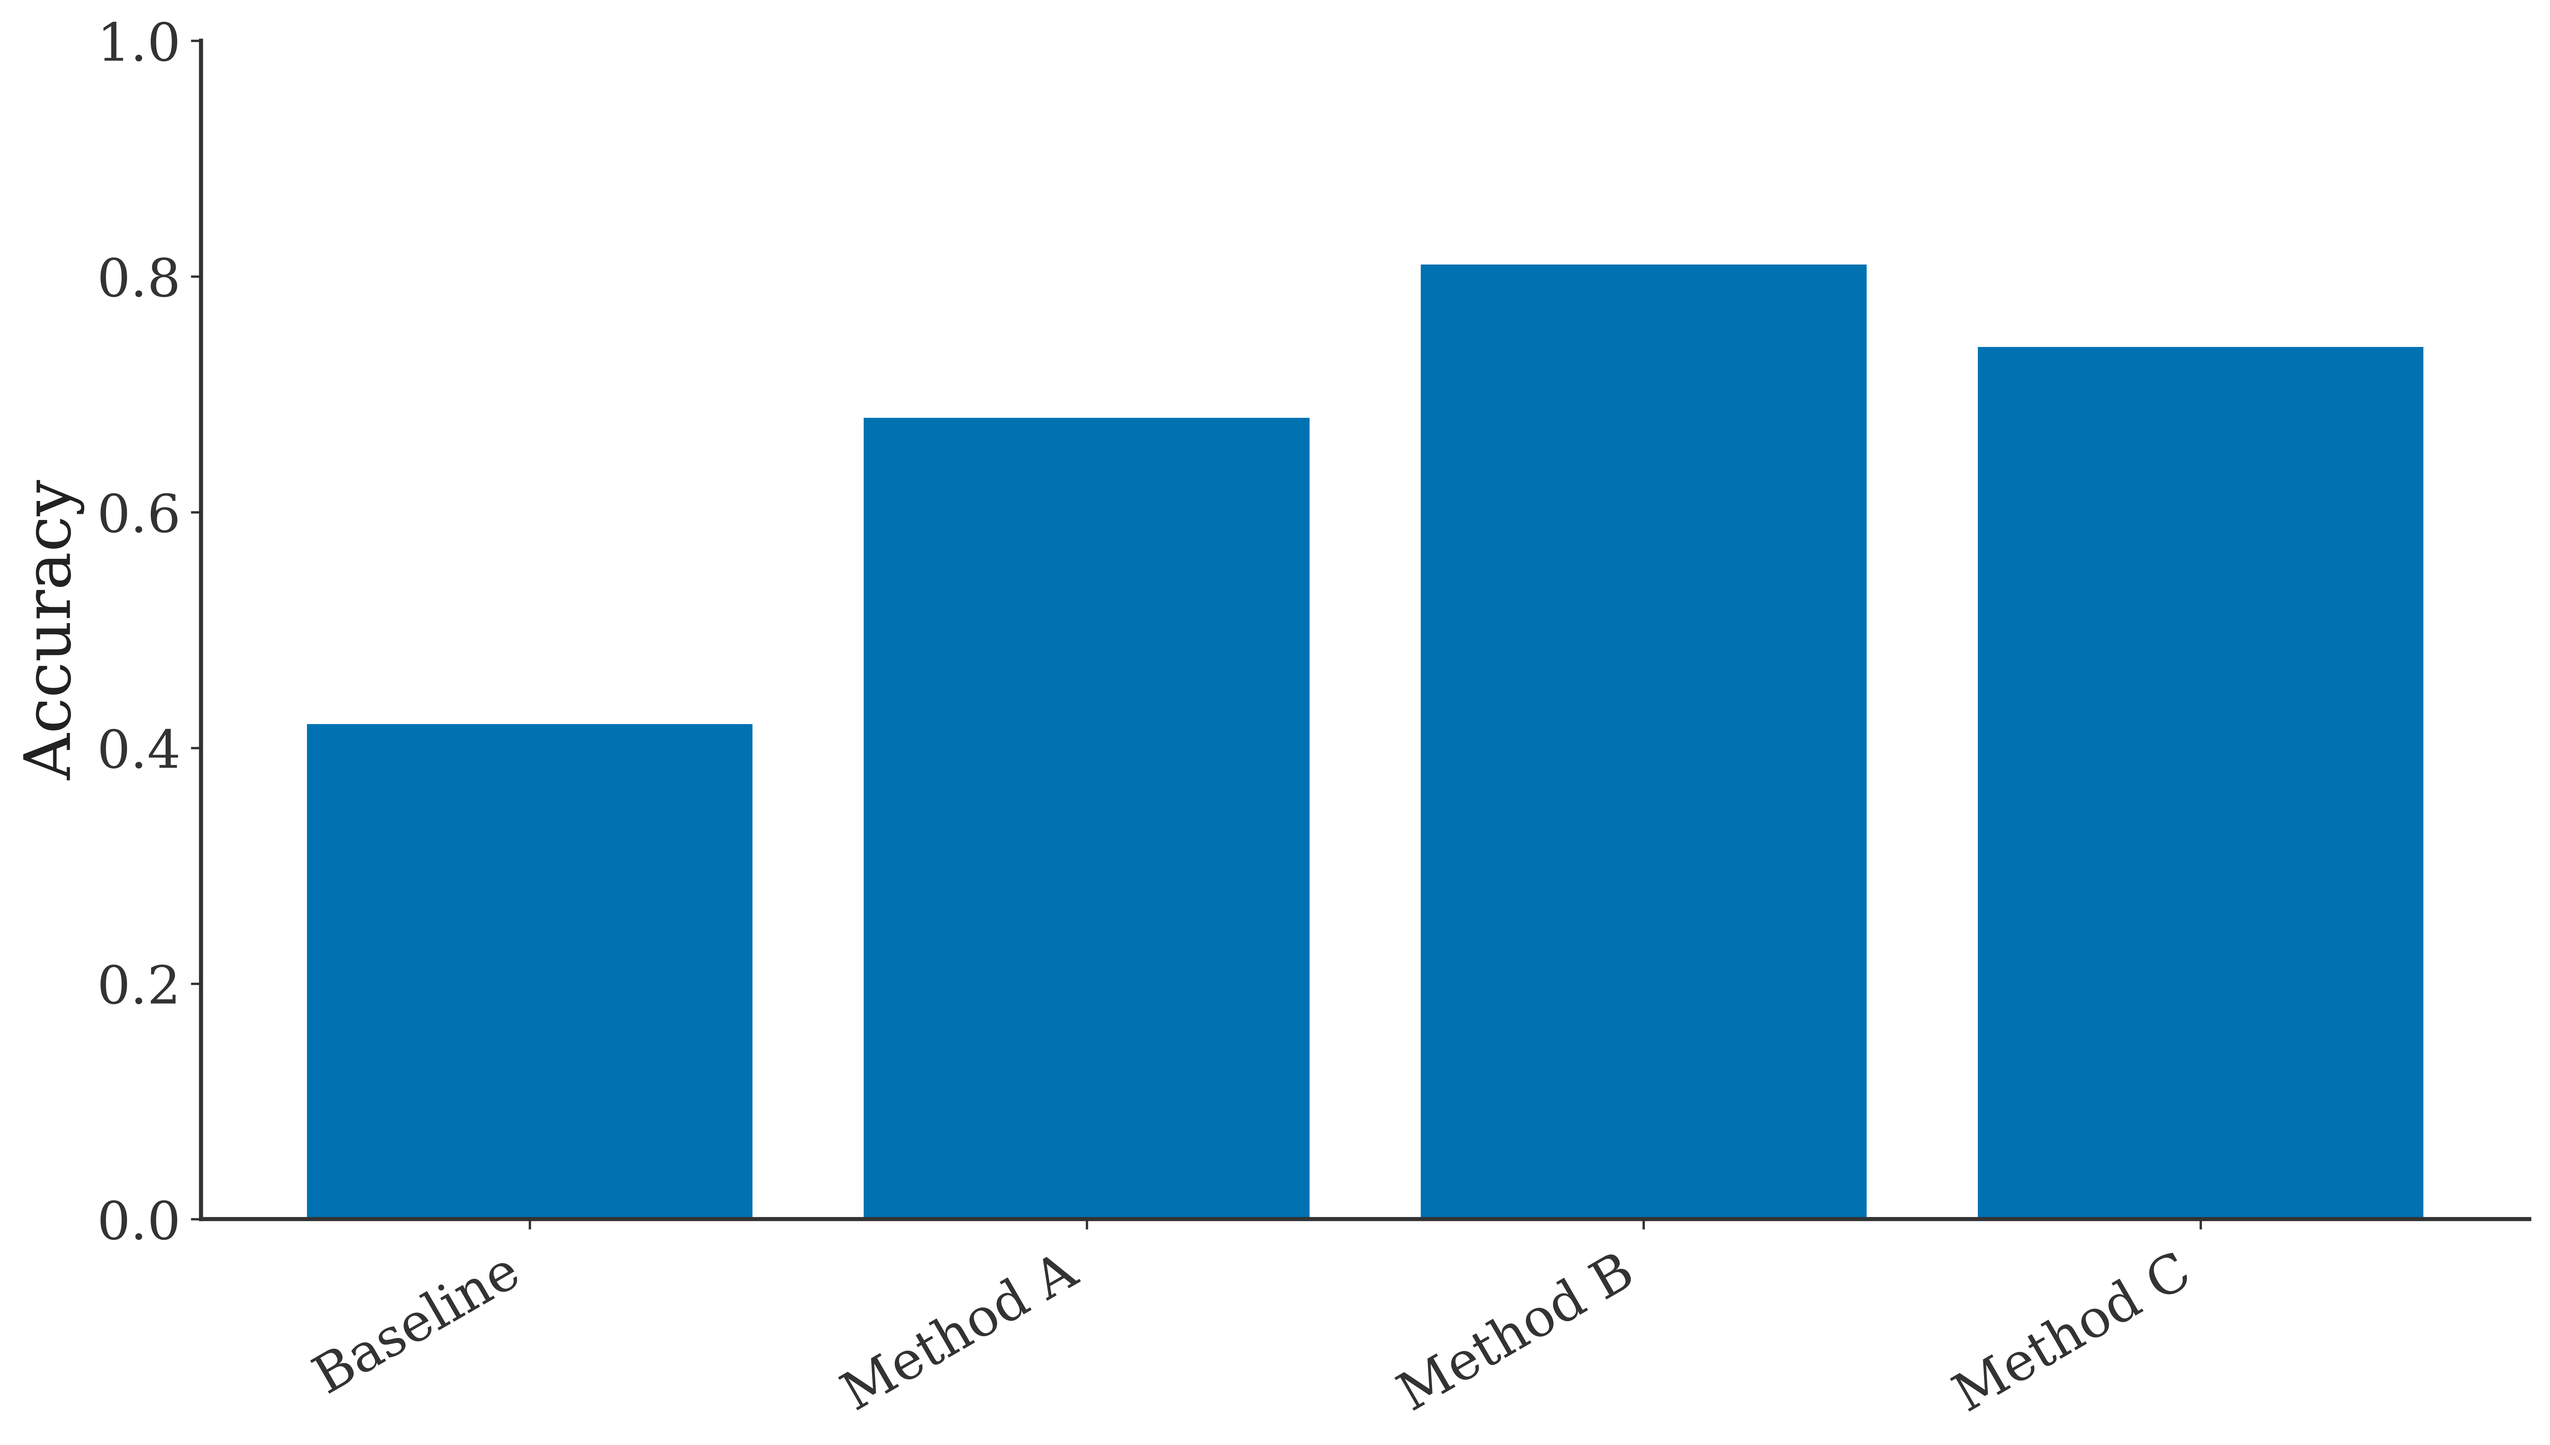
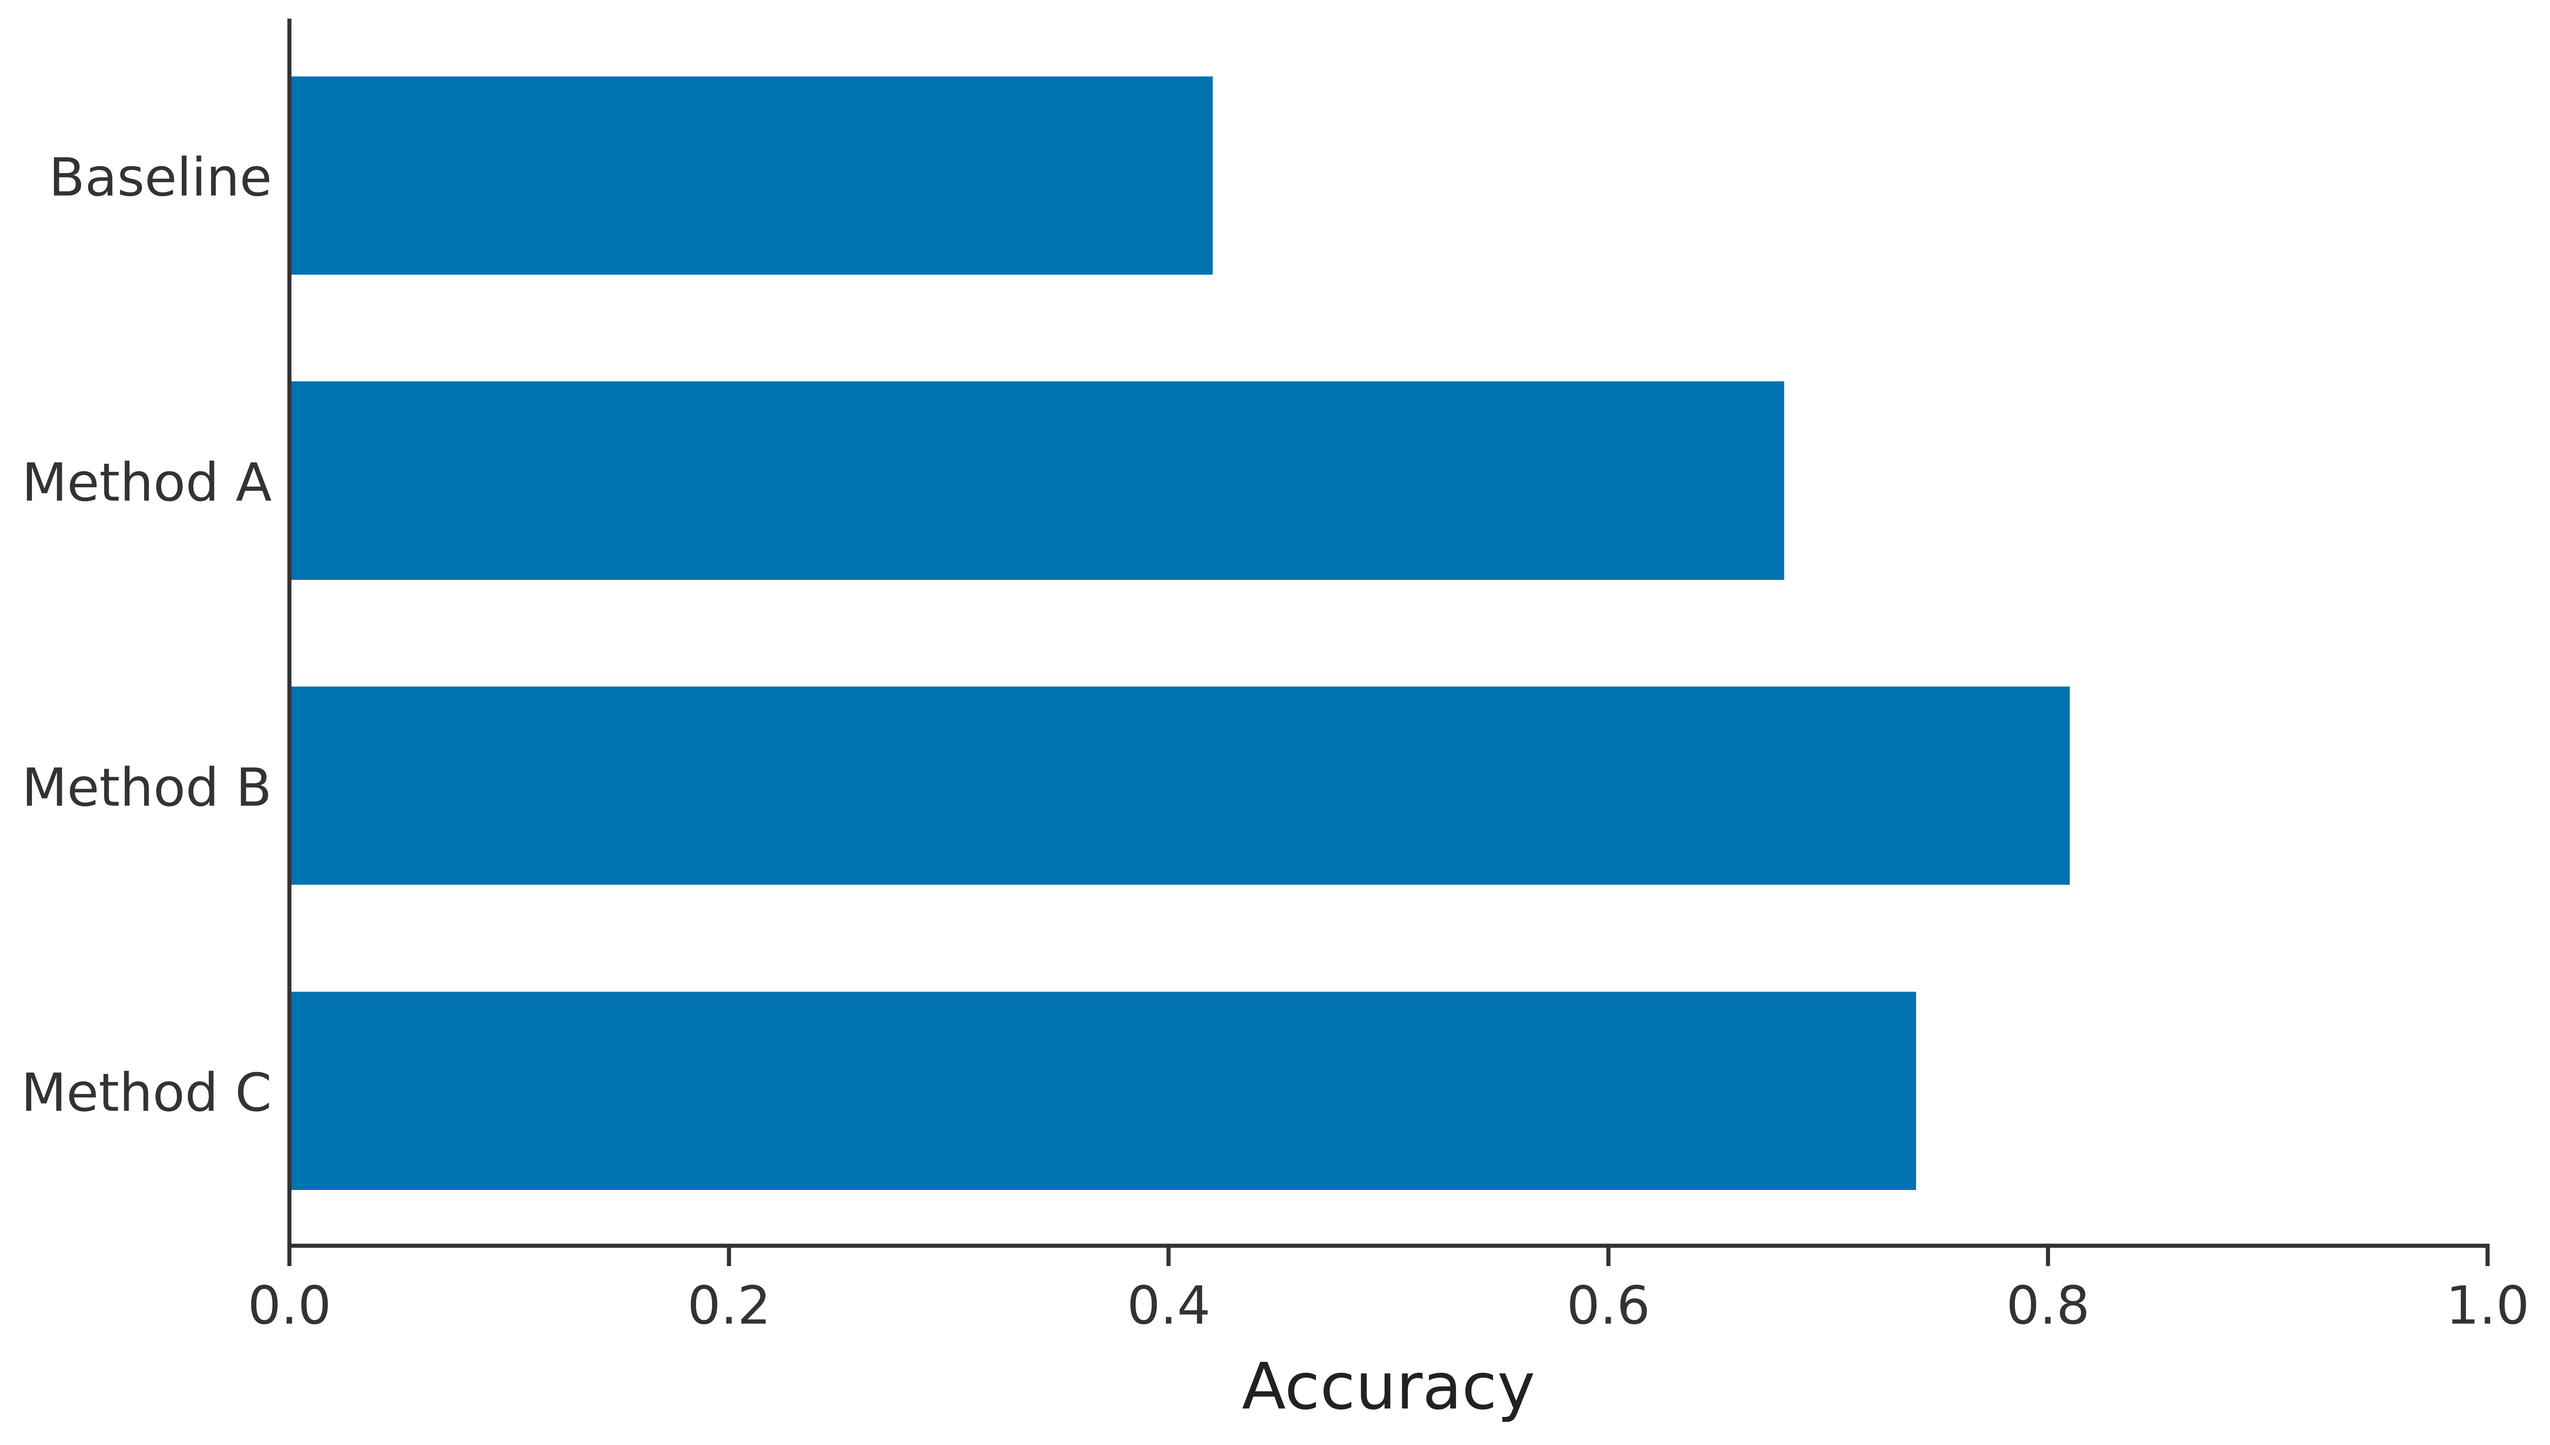
Improve sans serif figure typography and example readability

diff --git a/examples/build_readme_figures.py b/examples/build_readme_figures.py
@@ -21,6 +21,8 @@ def build(name: str) -> None:
     with rosen_style.context(name):
         # Line plot with redundant color, marker, and label encodings.
         figure, axes = plt.subplots()
+        if name == "paper":
+            figure.set_figheight(figure.get_figheight() * 1.25)
         for phase, label, marker in zip(
             (0, 0.7, 1.4),
             ("control", "method A", "method B"),
@@ -30,15 +32,19 @@ def build(name: str) -> None:
             y = np.sin(x + phase) + rng.normal(0, 0.06, x.size)
             axes.plot(x, y, label=label, marker=marker, markevery=15)
         axes.set(xlabel="Time (s)", ylabel="Response (a.u.)")
-        figure.set_figheight(figure.get_figheight() * 1.35)
-        lower, upper = axes.get_ylim()
-        axes.set_ylim(lower, upper + 0.5 * (upper - lower))
-        axes.legend(loc="upper left")
+        axes.legend(
+            loc="lower left",
+            bbox_to_anchor=(0, 1.02),
+            ncols=2 if name == "paper" else 3,
+            borderaxespad=0,
+        )
         figure.savefig(OUTPUT / f"{name}.png")
         plt.close(figure)
 
-        # Scatter plot with uncertainty encoded by point size.
+        # Scatter plot with redundant color and shape encodings.
         figure, axes = plt.subplots()
+        if name == "paper":
+            figure.set_figheight(figure.get_figheight() * 1.25)
         for offset, label, marker in zip(
             (0.0, 0.7, 1.4),
             ("control", "method A", "method B"),
@@ -49,23 +55,24 @@ def build(name: str) -> None:
             response = 0.65 * values + rng.normal(0, 0.35, values.size)
             axes.scatter(values, response, label=label, marker=marker, alpha=0.8)
         axes.set(xlabel="Predictor (a.u.)", ylabel="Response (a.u.)")
-        figure.set_figheight(figure.get_figheight() * 1.35)
-        lower, upper = axes.get_ylim()
-        axes.set_ylim(lower, upper + 0.5 * (upper - lower))
-        axes.legend(loc="upper left")
+        axes.legend(
+            loc="lower left",
+            bbox_to_anchor=(0, 1.02),
+            ncols=2 if name == "paper" else 3,
+            borderaxespad=0,
+        )
         figure.savefig(OUTPUT / f"{name}_scatter.png")
         plt.close(figure)
 
-        # Bar plot using a restrained subset of the categorical palette.
+        # Horizontal bars keep category labels readable without rotation.
         figure, axes = plt.subplots()
         categories = ("Baseline", "Method A", "Method B", "Method C")
         values = (0.42, 0.68, 0.81, 0.74)
-        axes.bar(categories, values)
-        axes.set(ylabel="Accuracy")
-        axes.set_ylim(0, 1)
+        axes.barh(categories, values, height=0.65)
+        axes.set(xlabel="Accuracy", xlim=(0, 1))
+        axes.invert_yaxis()
         axes.minorticks_off()
-        axes.tick_params(axis="x", pad=6, labelrotation=30)
-        plt.setp(axes.get_xticklabels(), horizontalalignment="right")
+        axes.tick_params(axis="y", length=0)
         figure.savefig(OUTPUT / f"{name}_bar.png")
         plt.close(figure)
 
@@ -75,7 +82,10 @@ def build(name: str) -> None:
         field = np.exp(-(xx**2 + yy**2)) + 0.5 * np.exp(
             -((xx - 1.1) ** 2 + (yy + 0.8) ** 2) / 0.25
         )
-        image = axes.imshow(field, extent=(-2, 2, -2, 2), origin="lower", aspect="auto")
+        # Equal spatial units must have equal visual lengths.
+        image = axes.imshow(
+            field, extent=(-2, 2, -2, 2), origin="lower", aspect="equal"
+        )
         axes.set(xlabel=r"Position $x$", ylabel=r"Position $y$")
         colorbar = figure.colorbar(image, ax=axes)
         colorbar.set_label("Intensity (a.u.)")

diff --git a/src/rosen_style/_style.py b/src/rosen_style/_style.py
@@ -29,33 +29,47 @@ _COMMON: dict[str, object] = {
     "figure.dpi": 600,
     "figure.facecolor": "white",
     "figure.constrained_layout.use": True,
-    "font.family": "serif",
-    "font.serif": ["Computer Modern Roman", "DejaVu Serif"],
+    "font.family": "sans-serif",
+    "font.sans-serif": ["DejaVu Sans"],
     "image.cmap": "plasma",
     "legend.frameon": False,
-    "mathtext.fontset": "cm",
+    "mathtext.fontset": "dejavusans",
     "savefig.bbox": "tight",
     "savefig.dpi": 600,
     "savefig.transparent": True,
     "text.color": "#222222",
     "xtick.color": "#333333",
+    "xtick.direction": "out",
     "ytick.color": "#333333",
+    "ytick.direction": "out",
 }
 _PAPER: dict[str, object] = {
+    "axes.labelpad": 4,
     "axes.labelsize": 10,
     "axes.linewidth": 0.8,
     "axes.titlesize": 12,
     "figure.figsize": (3.25, 3.25 / _GOLDEN_RATIO),
     "font.size": 10,
     "legend.fontsize": 9,
-    "lines.linewidth": 1.8,
-    "lines.markersize": 5,
+    "lines.linewidth": 1.4,
+    "lines.markersize": 4,
     "xtick.labelsize": 9,
+    "xtick.major.pad": 3.5,
+    "xtick.major.size": 3.5,
+    "xtick.major.width": 0.8,
+    "xtick.minor.size": 2,
+    "xtick.minor.width": 0.5,
     "xtick.minor.visible": True,
     "ytick.labelsize": 9,
+    "ytick.major.pad": 3.5,
+    "ytick.major.size": 3.5,
+    "ytick.major.width": 0.8,
+    "ytick.minor.size": 2,
+    "ytick.minor.width": 0.5,
     "ytick.minor.visible": True,
 }
 _PRESENTATION: dict[str, object] = {
+    "axes.labelpad": 8,
     "axes.labelsize": 22,
     "axes.linewidth": 1.4,
     "axes.titlesize": 26,
@@ -65,8 +79,14 @@ _PRESENTATION: dict[str, object] = {
     "lines.linewidth": 3.0,
     "lines.markersize": 9,
     "xtick.labelsize": 18,
+    "xtick.major.pad": 6,
+    "xtick.major.size": 7,
+    "xtick.major.width": 1.4,
     "xtick.minor.visible": False,
     "ytick.labelsize": 18,
+    "ytick.major.pad": 6,
+    "ytick.major.size": 7,
+    "ytick.major.width": 1.4,
     "ytick.minor.visible": False,
 }
 

diff --git a/tests/test_style.py b/tests/test_style.py
@@ -52,6 +52,26 @@ def test_styles_render(tmp_path):
         assert (tmp_path / f"{name}.png").stat().st_size > 0
 
 
+def test_switching_to_paper_resets_presentation_typography_and_spacing():
+    keys = (
+        "font.family",
+        "mathtext.fontset",
+        "axes.labelpad",
+        "xtick.major.pad",
+        "ytick.major.pad",
+        "xtick.major.size",
+        "ytick.major.size",
+        "xtick.major.width",
+        "ytick.major.width",
+    )
+    with mpl.rc_context():
+        rosen_style.use("paper")
+        expected = {key: mpl.rcParams[key] for key in keys}
+        rosen_style.use("presentation")
+        rosen_style.use("paper")
+        assert {key: mpl.rcParams[key] for key in keys} == expected
+
+
 def test_unknown_style_is_rejected():
     with pytest.raises(ValueError, match="Unknown style"):
         rosen_style.settings("cow")

diff --git a/README.md b/README.md
@@ -46,6 +46,17 @@ Outside the `with` block, Matplotlib's previous settings are restored. Mathemati
 
 The defaults use 600 DPI for display and saved output, a color-vision-friendly categorical cycle, the perceptually uniform `plasma` image colormap, readable labels, transparent saved backgrounds, no grid lines, and minor ticks in paper mode. Figure titles are intentionally left to captions or surrounding presentation content. Pair color with markers, line styles, or direct labels when it carries meaning.
 
+### Visual design choices
+
+- **Typography:** both styles use bundled DejaVu Sans text and matching sans serif math for consistent typography across machines.
+- **Paper:** 1.4-point lines and 4-point markers keep overlapping traces legible at single-column size. Minor ticks are shorter and lighter than major ticks.
+- **Presentation:** longer, thicker major ticks and increased label spacing balance the larger type at slide scale.
+- **Legends:** the examples place legends above the axes so they do not cover observations or require artificially expanded data limits. Marker shapes identify series as well as color.
+- **Categories:** horizontal bars keep labels upright, with a zero baseline and one color for a single quantity.
+- **Spatial data:** the heatmap uses equal aspect so equal distances on the two axes remain equal on screen. Choose `aspect="auto"` only when the axes do not represent comparable spatial units.
+
+These are starting points: inspect figures at their final printed or projected size. Transparent exports assume a light background; use `fig.savefig("slide.png", transparent=False, facecolor="white")` when inserting a figure onto a dark slide. For crisp scalable output, save as PDF or SVG instead of PNG.
+
 ## Examples
 
 Line plot:
@@ -64,6 +75,10 @@ Heatmap with a perceptually uniform color scale:
 
 ![Paper heatmap](examples/paper_heatmap.png)
 
+Presentation typography and spacing:
+
+![Presentation line plot](examples/presentation.png)
+
 CI regenerates and commits these images when their source or the styles change.
 
 ## Structure visualization
@@ -73,5 +88,7 @@ For publication-ready atomic structures, we recommend [Pretty Lattice](https://g
 ## Design references
 
 - [Claus O. Wilke, *Fundamentals of Data Visualization*](https://clauswilke.com/dataviz/)
+- [Redundant coding: combine color with shapes or line styles](https://clauswilke.com/dataviz/redundant-coding.html)
+- [Matplotlib style parameters and font configuration](https://matplotlib.org/stable/users/explain/customizing.html)
 
 There are also many excellent Python examples on [The Python Graph Gallery](https://www.python-graph-gallery.com/) and [Python Charts](https://python-charts.com/) websites. For what not to do, check out the "[Friends Don't Let Friends Make Bad Graphs](https://github.com/cxli233/FriendsDontLetFriends)" repository.
